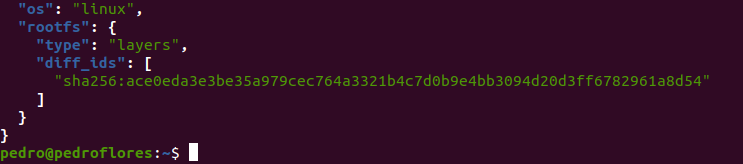
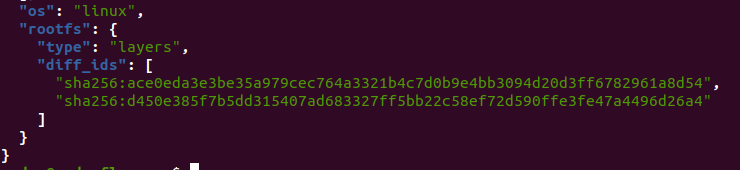
Algunos cambios en los ejercicios del tema 3

Changed region(s): [[0.0, 0.2439, 0.9946, 1.0], [0.0, 0.0, 0.2176, 0.2134]]

diff --git a/semana 5/Ejercicio3.md b/semana 5/Ejercicio3.md
@@ -1,11 +1,9 @@
 # 3. Crear a partir del contenedor anterior una imagen persistente con commit.
 
-Para este ejercicio, vamos a usar por ejemplo el contenedor de `Alpine` en el que hemos hecho que muestre 'Hola mundo' por pantalla.
-
+Para este ejercicio, vamos a usar por ejemplo el contenedor de `Alpine` . Lo que vamos a hacer es crear una archivo en el contenedor y luego hacer una nueva imagen que contenga dicho archivo. Primero creamos el archivo dentro del contenedor.
 
 ![](./imgs/3.1.png)
 
-Creamos la nueva imagen a partir de dicho contenedor
-
+Ahora, vamos a crear la imagen
 
 ![](./imgs/3.2.png)

diff --git a/semana 5/Ejercicio4.md b/semana 5/Ejercicio4.md
@@ -3,7 +3,7 @@
 Para examinar las capas de la imagen anterior ejecutamos el comando 
 
 ```
-sudo jq '.' /var/lib/docker/image/overlay2/imagedb/content/sha256/0ab7a52240de9bd2d9531e2ba4a5e2c8c1bb5973f136fa5e667af638dfcd1efb
+sudo jq '.' /var/lib/docker/image/overlay2/imagedb/content/sha256/195c2bae9940943ed2869e244a1227064a5f366d70812e888c422490d3cc7837
 
 ```
 

diff --git a/semana 5/Ejercicio1.md b/semana 5/Ejercicio1.md
@@ -27,3 +27,5 @@ Ejecutamos el siguiente ejemplo:
 
 
 ![](./imgs/1.5.png)
+
+A diferencia de `hello-world` que ya teníamos la images, en este caso vemos cómo se la tiene que descargar para poder ejecutarlo.
